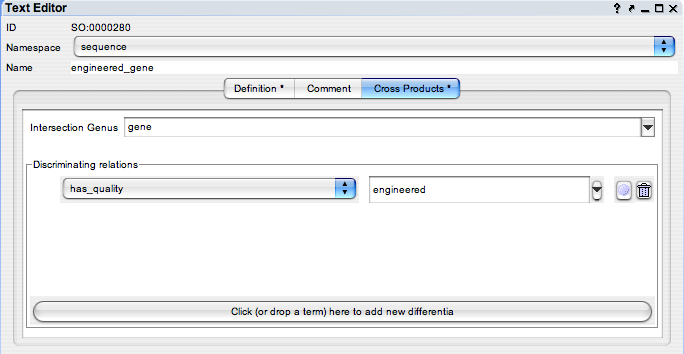
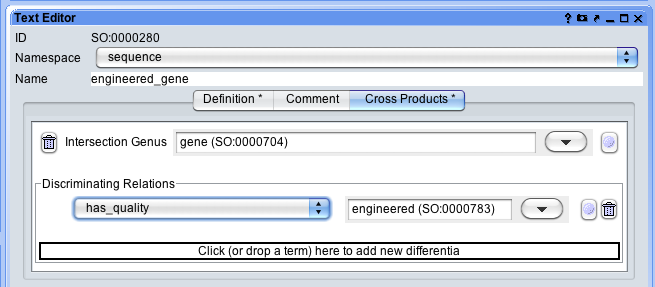
Updated description of how to create and edit cross products.

diff --git a/java/oboedit/trunk/docs/html/Cross_Products_in_the_Text_Editor.htm b/java/oboedit/trunk/docs/html/Cross_Products_in_the_Text_Editor.htm
@@ -10,25 +10,16 @@
 
 <h2> How It Works</h2>
 
-<p>The Cross Products tab creates new intersection relationships for a
+<p>The Cross Products tab in the Text Editor allows you to create new intersection relationships for a
 term of interest (that is, the current <a
 href="Working_with_Selections.htm#subselection">sub-selection</a>)
 based on a specified genus and collection of differentia. The Cross
 Products tab does not create any new terms. To create cross-product
-relationships for an existing term, load a term into the text editor
+relationships for an existing term, load the term into the Text Editor
 panel by <a href="Working_with_Selections.htm">selecting</a> it. To
 create a brand new term with a cross product definition, first <a
-href="Adding_New_Terms.htm">create the new term</a> and then specify
+href="Adding_New_Terms.htm">create the new term</a>, and then specify
 the cross product definition as described below.</p>
-
-<p><strong>Note</strong>: In order to edit using the Cross Products
-Tab, you will need to select the cross-product term in an Ontology
-Tree Editor panel in global selection mode, and then select its genus
-and differentia terms in an Ontology Tree Editor panel in local
-selection mode. You may therefore find it convenient to have two or
-more Ontology Editor Panels open. See <A
-href="The_Term_Editor_Panel.htm">The Ontology Editor Panel help</a>
-for more information on using multiple ontology editor panels.</p>
 
 <h2>The Cross Products Tab in the Text Editor</h2>
 <p> The <A href="Text_Editing.htm">text 
@@ -39,65 +30,75 @@ src="../images/cross_product_tab.png" border=0></p>
 <p>This tab assumes that your cross products conform to the
 genus/differentia method of designating cross products.</p>
 
-<p>The genus term is listed at the top. Differentia terms are listed
-in the "Discriminating Relations" section. Each line of this section
-represents a relationship to a term. The drop down box contains the
-relationship type, and the button immediately to the right contains
+<p>The genus term is listed at the top of the Cross Products tab. Differentia terms are listed
+in the "Discriminating Relations" section. Each line of the Discriminating Relations section
+represents a relationship to a term. The dropdown box on the left contains the
+relationship type, and the text box immediately to the right contains
 the target (parent) term of this relationship.</p>
 
-<p>To the right of each button that contains a term is a button marked
-with a blue circle. Clicking this button causes the term to be
-selected in the ontology editor panel. These buttons are for use while
+<p>To the right of each term name in the Cross Products editor is a button marked
+with a fuzzy light blue circle. Clicking this button causes that term to be
+selected in the Ontology Tree Editor panel (in place of the currently shown
+term). The fuzzy circle buttons are intended for use while
 browsing, not editing. Clicking one of these buttons will usually
-cause a new term to be loaded into the text editor, so you will lose
+cause a new term to be loaded into the Text Editor, so you could lose
 any pending changes to the cross product definition if one of these
-buttons is clicked.</p>
+buttons is clicked (though the Text Editor should warn you that you have
+unsaved changes, and give you the opportunity to hit Cancel).</p>
 
 <h2>Assigning a Genus Term</h2>
 
-<p>In an Ontology Tree Editor panel that is in local selection mode,
-select the term that you wish to use as the genus term. Note that you
-cannot use the primary selection panel to select the term you wish to
-use as the genus term because selecting another term will unselect the
-term of interest for which you are trying to make the cross product
-relationships.</p>
- 
-<p>Drag the new genus term onto the button labeled &quot;&lt;drop a
-genus term&gt;&quot;. The text on the button will change to the name
-of the new genus term. The genus can also be created by starting to
-type into the box and allowing the autocomplete to make suggestions,
-one of which can be selected. </p>
+<p>To add a new genus term, type part of a term name or ID into the
+Intersection Genus box. After a brief pause, a dropdown menu of term names that contain
+the characters you typed will appear; click on one to select it. (Note that
+the dropdown menu includes only the top ten matches to the string you entered;
+there may be more matching terms than that.)</p>
 
-<p>To assign NO genus term, click the genus term button. The current
-genus term will be removed.</p>
-
-<p>It is possible to create a valid cross-product with no genus term
-in OBO-Edit. It is <strong>not recommended</strong>.</p>
+<p>To assign NO genus term, click the garbage can button to the left of the genus
+term. The current genus term (plus any differentia) will be removed.
+It is possible to create a valid cross-product with differentia and no genus term
+in OBO-Edit; however, this is <strong>not recommended</strong>.</p>
 
 <h2>Assigning Differentia Terms</h2>
 
+<p>You can assign differentia terms by clicking the button that says &quot;Click
+(or drop) here to add a new differentia&quot; and then typing or pasting a
+term name or ID into the text box. As described above, as you start typing, an
+autocomplete dropdown menu will appear, which you can choose from. To assign
+the relationship for the differentia, use the pulldown menu of relationships.</p>
+
+<p>Another way to add a differentia is to drag a term onto the &quot;Click
+(or drop) here to add a new differentia&quot; button.
+The easiest way to do this is to have two (or
+more) Ontology Tree Editor Panels open, because you
+will need to select the
+differentia term(s) in an Ontology Tree Editor panel that's in local
+selection mode. See the <A
+href="The_Term_Editor_Panel.htm">Ontology Tree Editor Panel page</a>
+for more information on using multiple Ontology Tree Editor panels.</p>
 <p>In an Ontology Tree Editor panel that is in local selection mode,
-select a term that you wish to use as a differentia term.</p>
+select a term that you wish to use as a differentia term. Note that you
+cannot use the primary selection panel to select the term you wish to
+use as the differentia term because selecting another term will unselect the
+term of interest for which you are trying to make the cross product
+relationships.</p>
 
 <p>Drop the new differentia term onto the button labelled &quot;Click
 (or drop) here to add a new differentia&quot;. A popup menu will
 appear containing a list of all available relationship types in the
 current ontology. Choose an option from the menu to assign a type to
-your new relationship. Alternately, a new differentia may be created
-by simply clicking on the &quot;Click (or drop) here to add a new
-differentia&quot; button. This will be empty until you specify the
-relationship from the given list, and start to type the name of the
-term into the box. Again the autocompleter will provide you with
-possible options. The drop down arrow allows you to quickly change
-your mind to a similar term.</p>
+your new relationship.</p>
 
-<p>To entirely remove a differentia term, click the garbage can button
-next to the term.</p>
+<p>To remove a differentia term, click the garbage can button
+to the right of the unwanted differentia. If you've accidentally gotten into a state where you have
+a differentia but no genus, you will need to use the Genus garbage can button that's
+to the left of the Intersection Genus line.</p>
 
 <h2>Saving and reasoning</H2>
 
-<p>Changes are automatically saved when you move on to another
-term. OBO-Edit will create the hidden links that record your new cross
+<p>If you are in autocommit mode, changes to the cross products are automatically saved when you move on to another
+term. If you aren't, then click the Commit button in the Text Editor to save
+your changes. OBO-Edit will create the hidden links that record your new cross
 product. If <a href="The_OBO_Edit_Reasoner.htm">the reasoner</a> is
 running, OBO-Edit will try to create inferred <strong>is_a</strong>
 links based on your new cross-product definition.</p>
